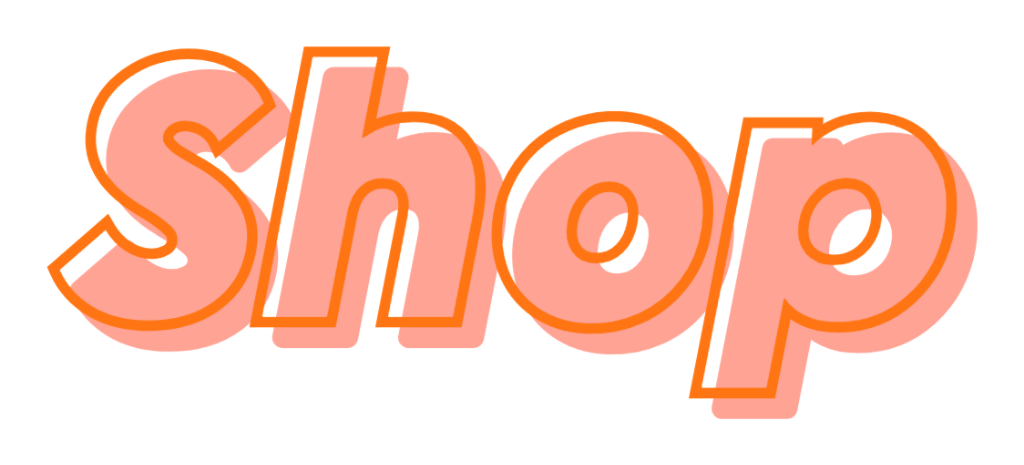
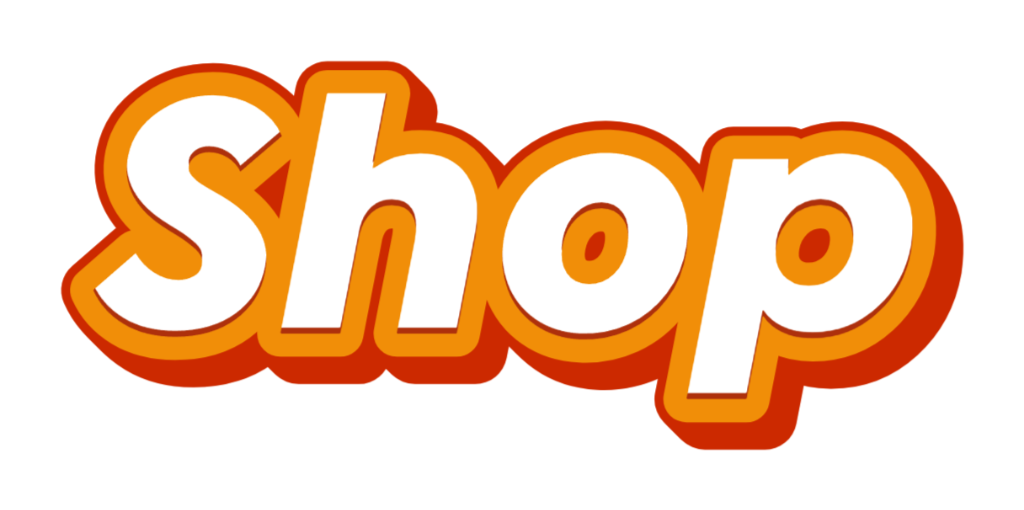
finish

diff --git a/screens/Shop.js b/screens/Shop.js
@@ -224,7 +224,7 @@ export default function ShopScreen({ navigation }) {
       />
       <View style={styles.headerContainer}>
               <Image
-                          source={require('../assets/Rules2.png')}
+                          source={require('../assets/Shop.png')}
                           style={styles.headerTitle}
                         />
             </View>
@@ -270,14 +270,14 @@ const styles = StyleSheet.create({
     zIndex: 2,
   },
   arrowImage: {
-    width: 50,
-    height: 40,
+    width: 70,
+    height: 70,
     resizeMode: 'contain',
   },
   container: {
     flex: 1,
     padding: 10,
-    marginTop: 60,
+    marginTop: 20,
   },
   listContainer: {
     paddingBottom: 20,

diff --git a/screens/StartScreen.js b/screens/StartScreen.js
@@ -72,7 +72,7 @@ export default function StartScreen({ navigation }) {
           onPress={() => navigation.navigate('Shop')}
         >
           <Image
-            source={require('../assets/Shop.png')}
+            source={require('../assets/Shop2.png')}
             style={styles.buttonImage}
           />
         </TouchableOpacity>
